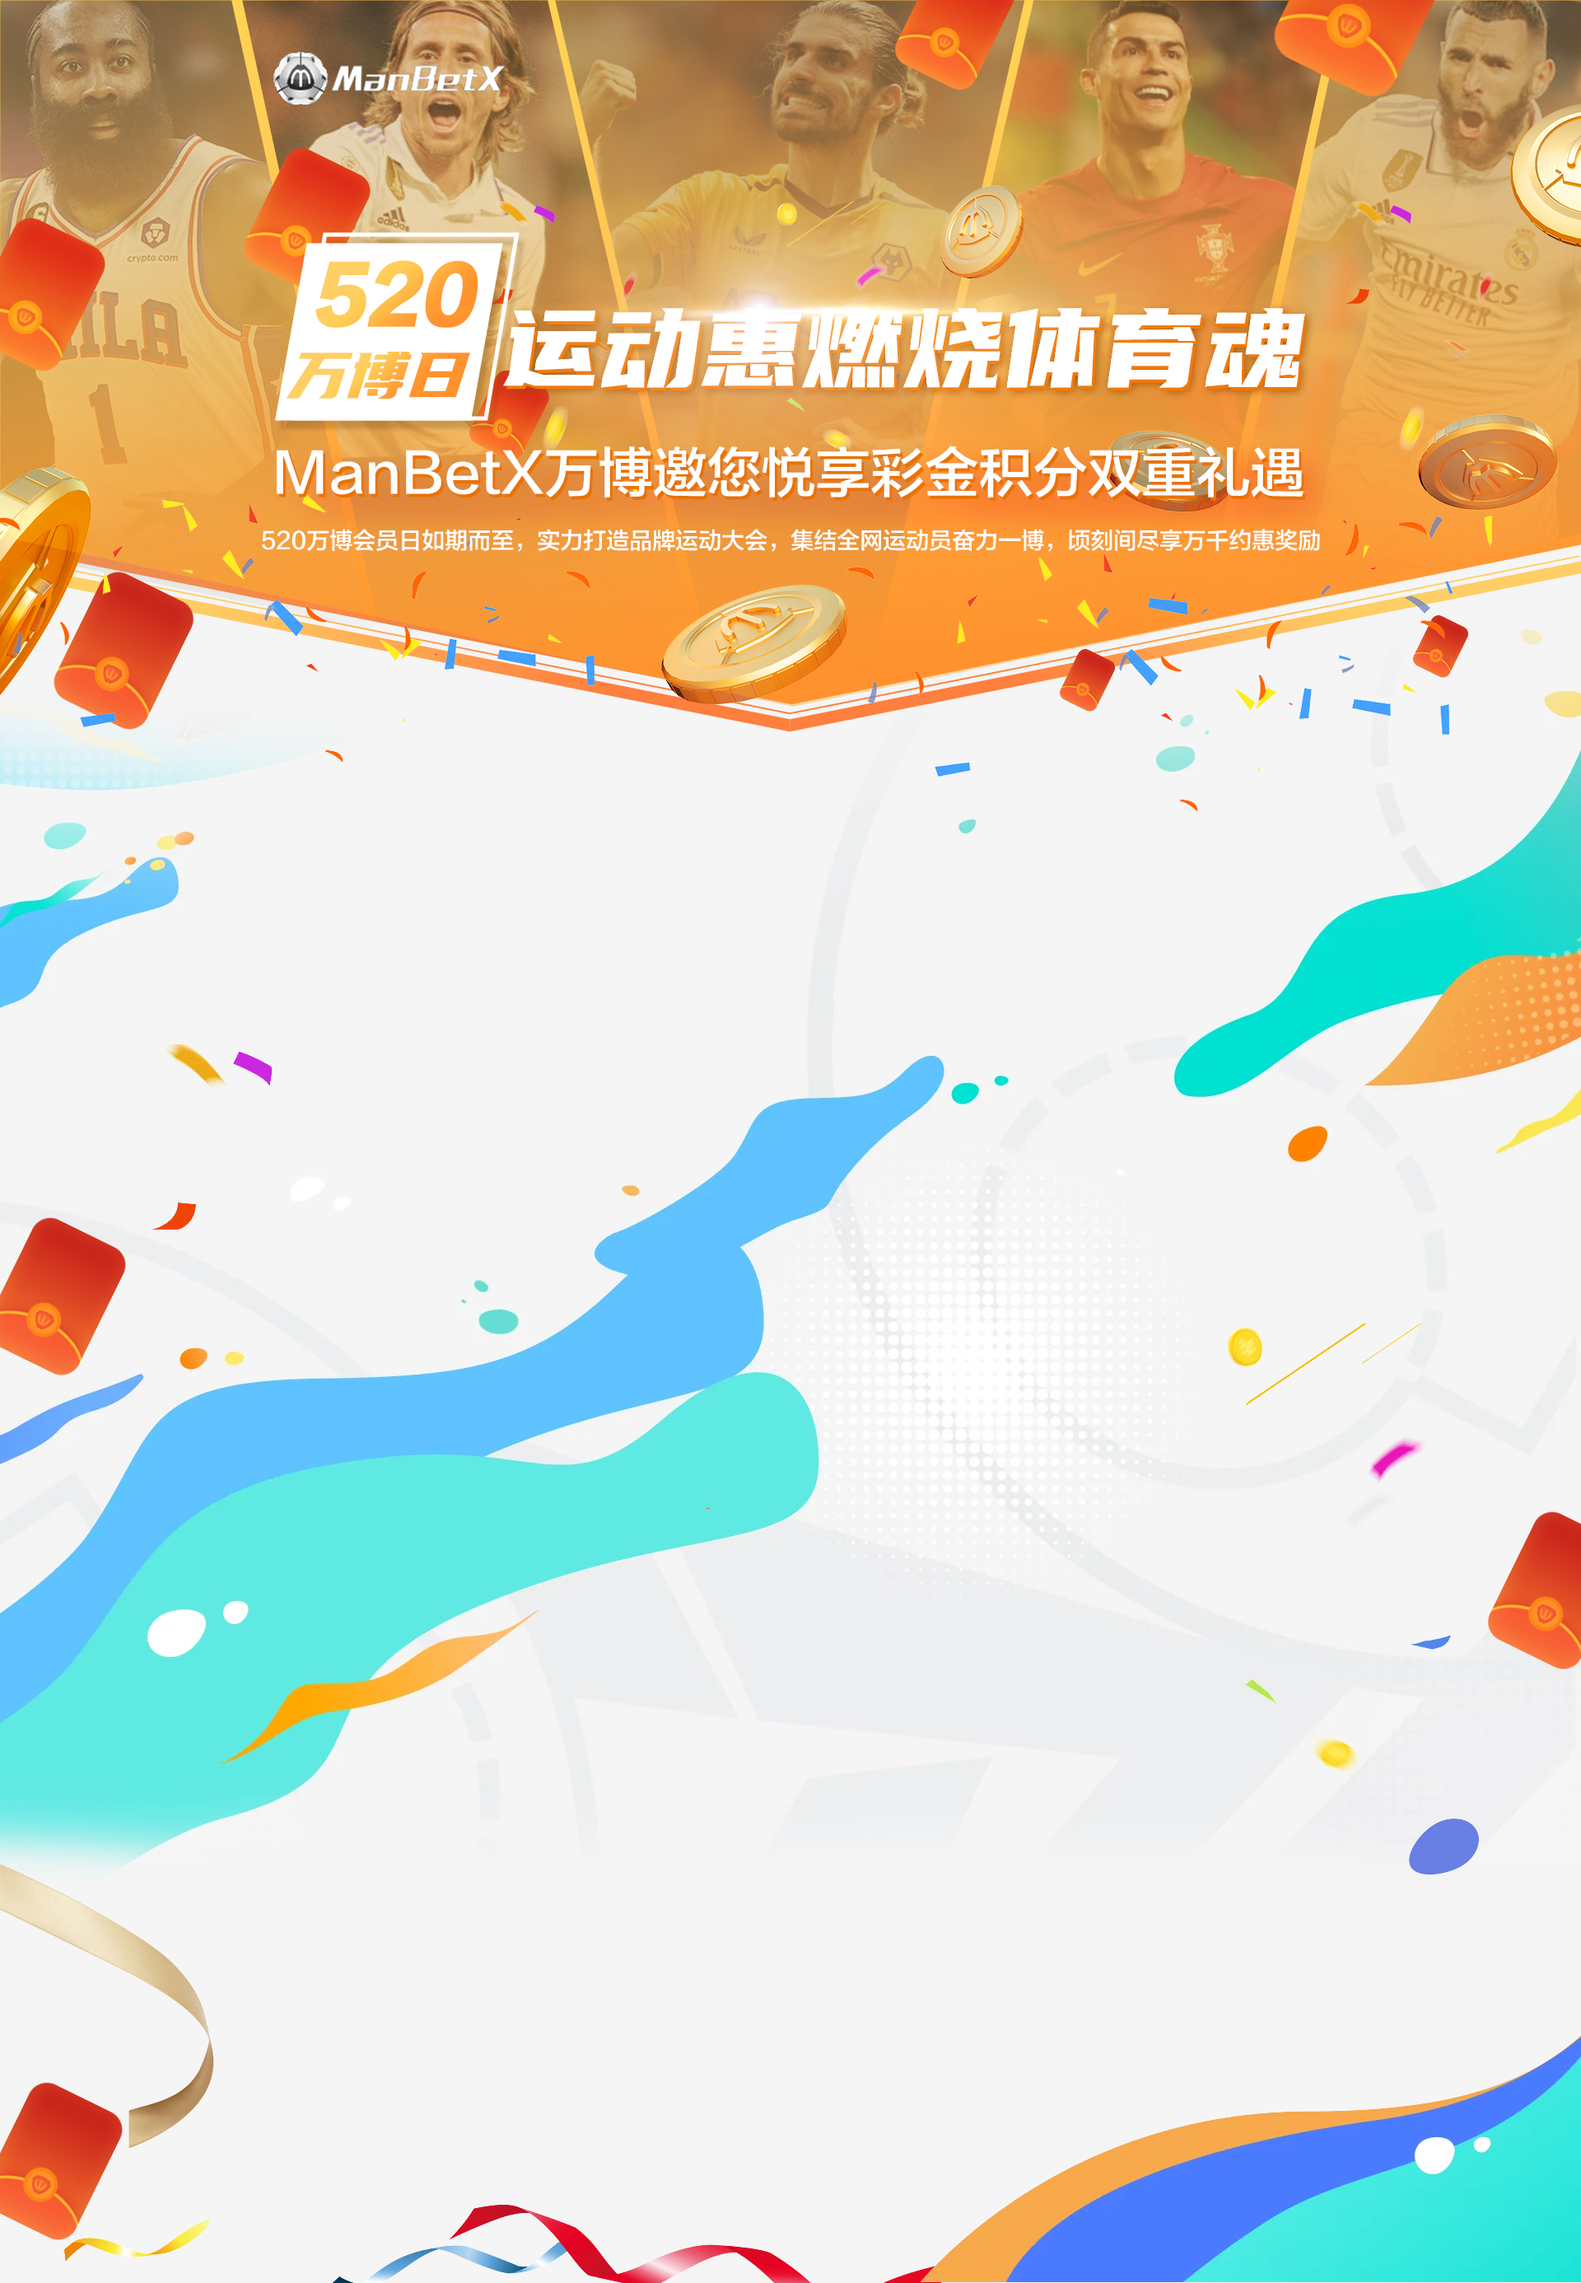
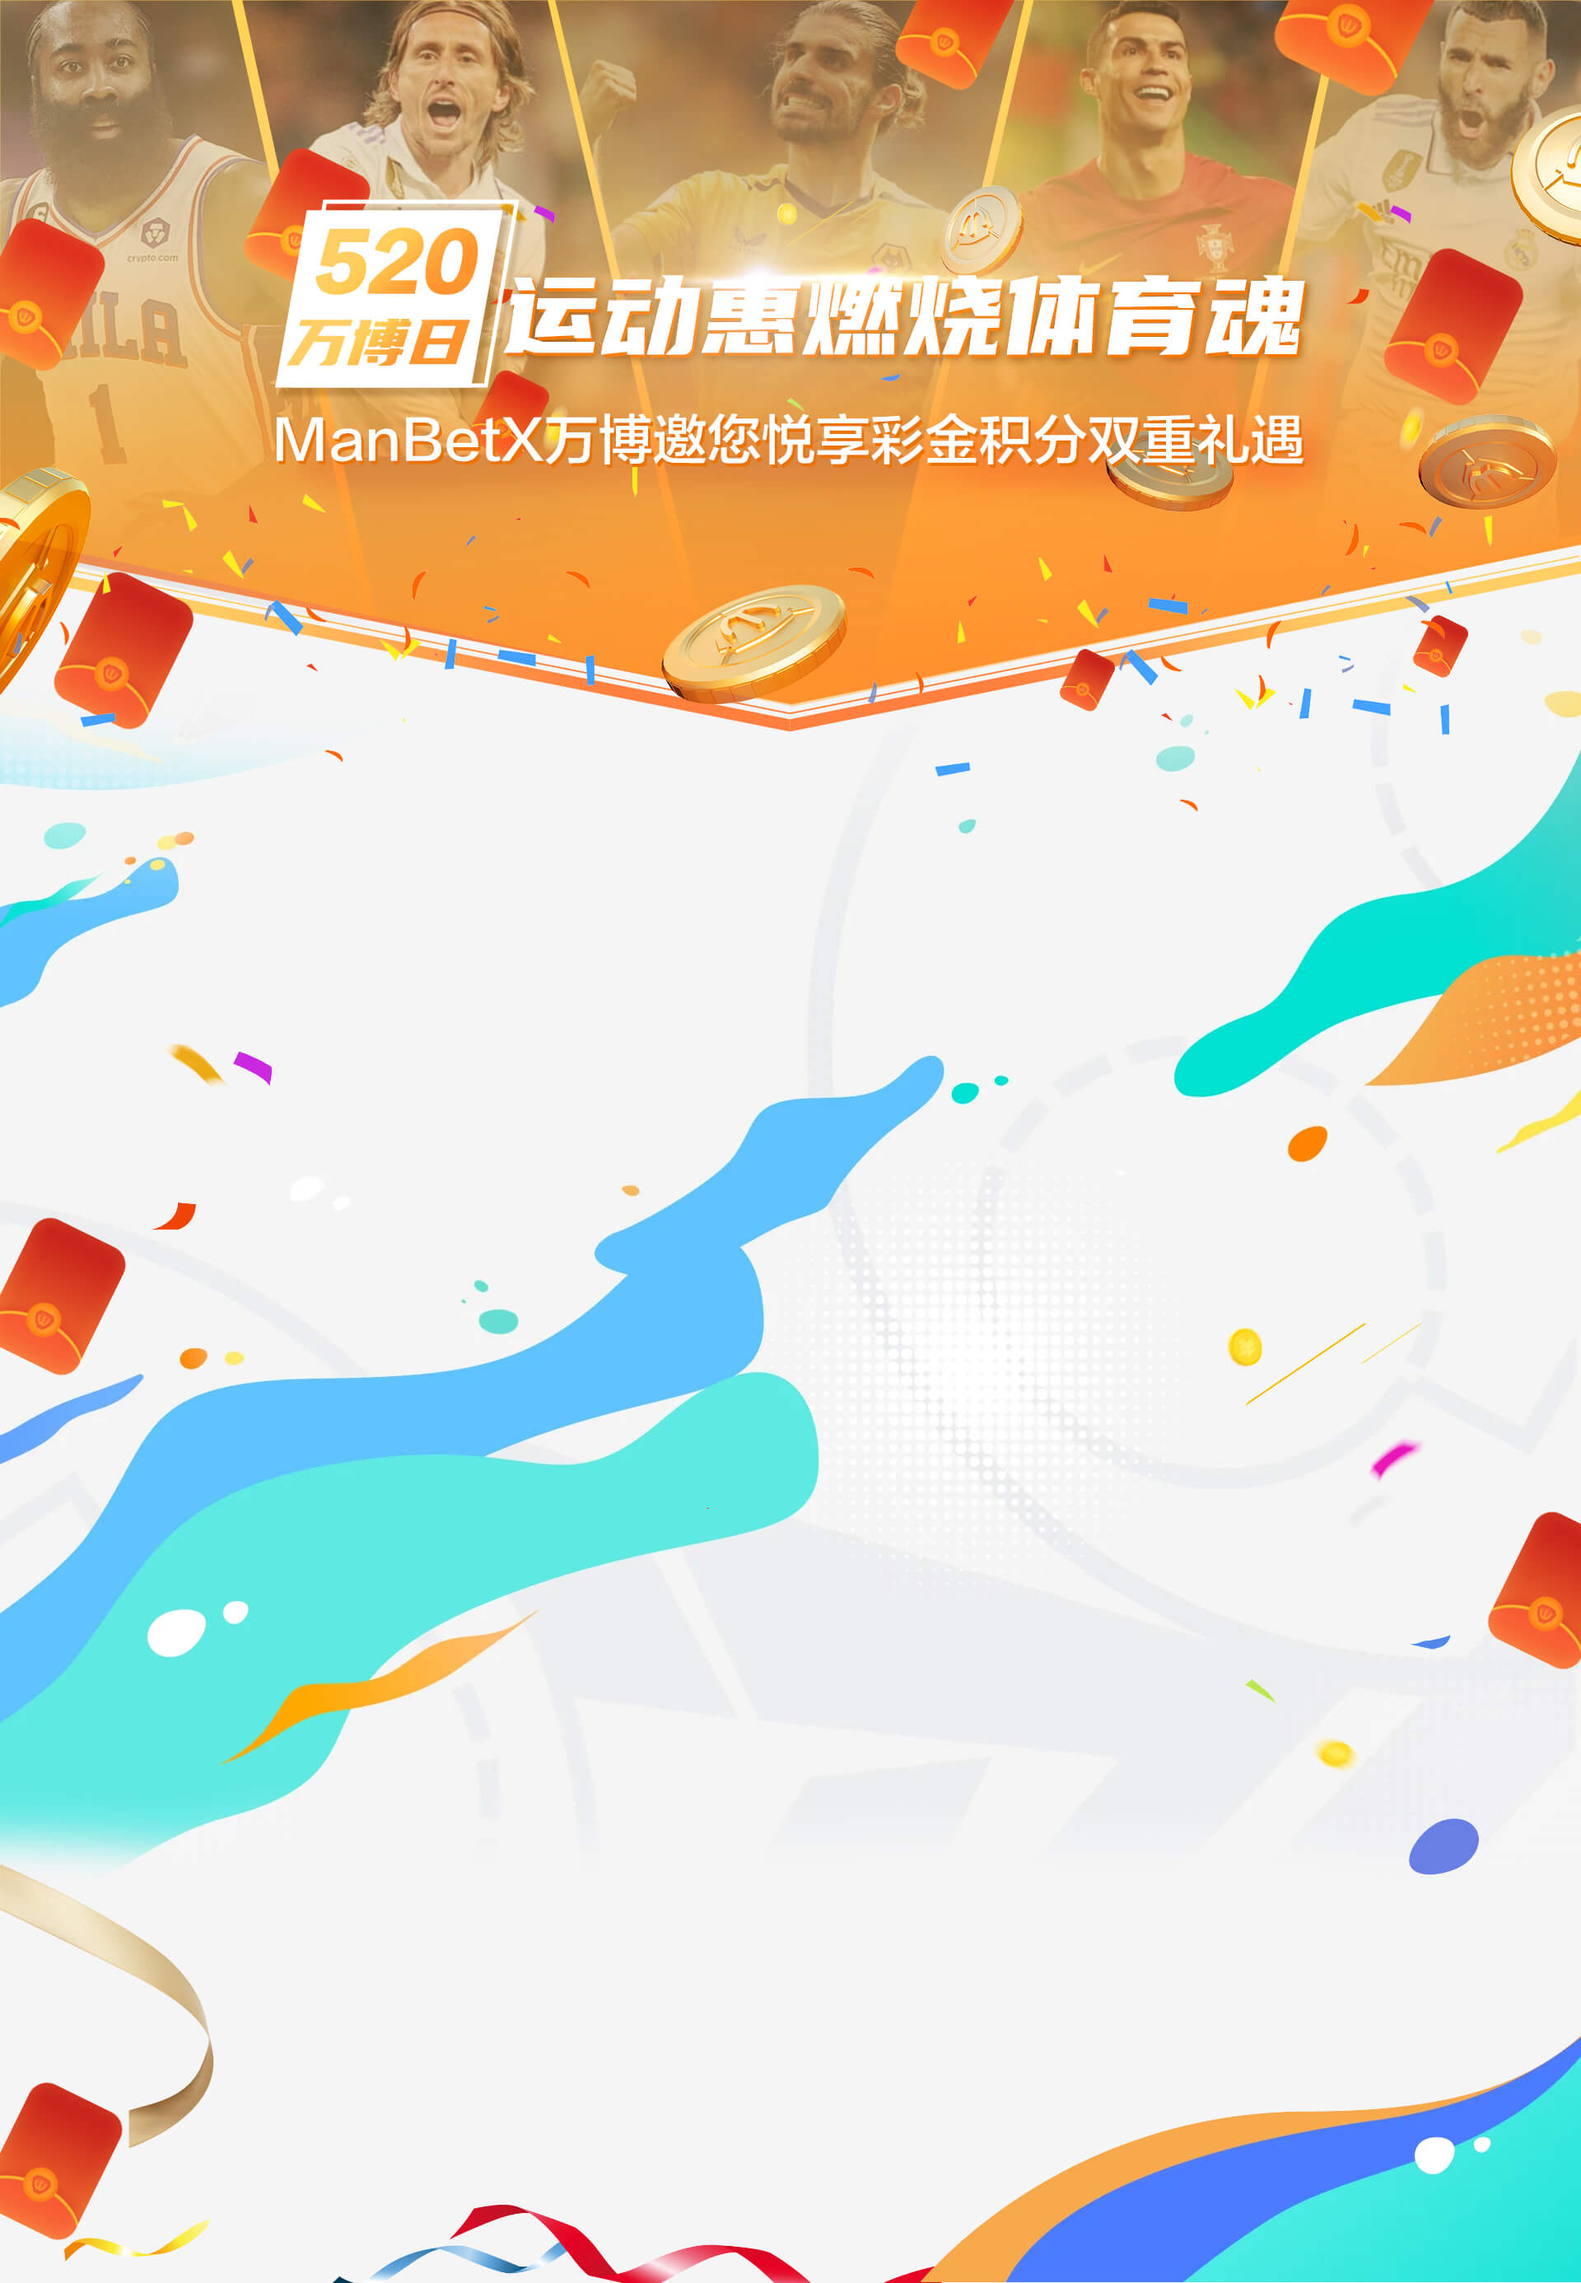
feat: 图片

Changed region(s): [[0.0, 0.0, 1.0, 0.2482]]

diff --git a/src/views/index.vue b/src/views/index.vue
@@ -1,5 +1,8 @@
 <template>
   <div class="index">
+    <div class="logo">
+      <img src="../assets/image/logo.png" height="64px" alt="">
+    </div>
     <!-- 主页面 -->
     <div class="container">
       <div class="main">
@@ -37,9 +40,7 @@
         <div class="activeTitle">
           <!-- <img src="../" alt="" class="bgBanner" /> -->
           <div class="bgText">
-            <div class="activity-desc">活动内容</div>
-            <div>520万博会员日运动大会，体育健将敢闯敢拼，彩金</div>
-            <div>积分双倍惊喜，积分累计幸运抽奖，最高累计可获300积分</div>
+            
           </div>
         </div>
         <div class="activeTheme">
@@ -1317,17 +1318,20 @@ export default {
 
 <style lang="stylus" scoped>
 .index {
-  height: 2930px;
-  width: 100vw;
-  background: url('../assets/image/bg.jpg');
+  height: 2772px;
+  background: url('../assets/image/bg.jpg') center no-repeat;
   background-size: 100% 100%;
   clearfix();
   font-family: MicrosoftYaHei;
 }
 
+.logo {
+  margin-left: 160px;
+  margin-top: 70px;
+}
 .main {
   width: 1200px;
-  margin: 960px auto 0;
+  margin: 760px auto 0;
 
   .activeContent {
     height: 105px;
@@ -2064,24 +2068,10 @@ export default {
   text-align: center;
 }
 .activeTitle {
-  width: 1262px;
-  height: 190px;
+  width: 1200px;
+  height: 180px;
   background: url("~@/assets/image/titleBanner.png") center no-repeat;
   background-size: cover;
-
-  .bgText {
-    text-align: center;
-    padding-top: 20px;
-
-    div {
-      font-family: FZZDHJW--GB1-0;
-      font-size: 36px;
-      color: transparent;
-      background: linear-gradient(#fb4343, #fb9a2b);
-      -webkit-background-clip: text;
-      font-weight: bold;
-    }
-  }
 }
 
 .cr {
